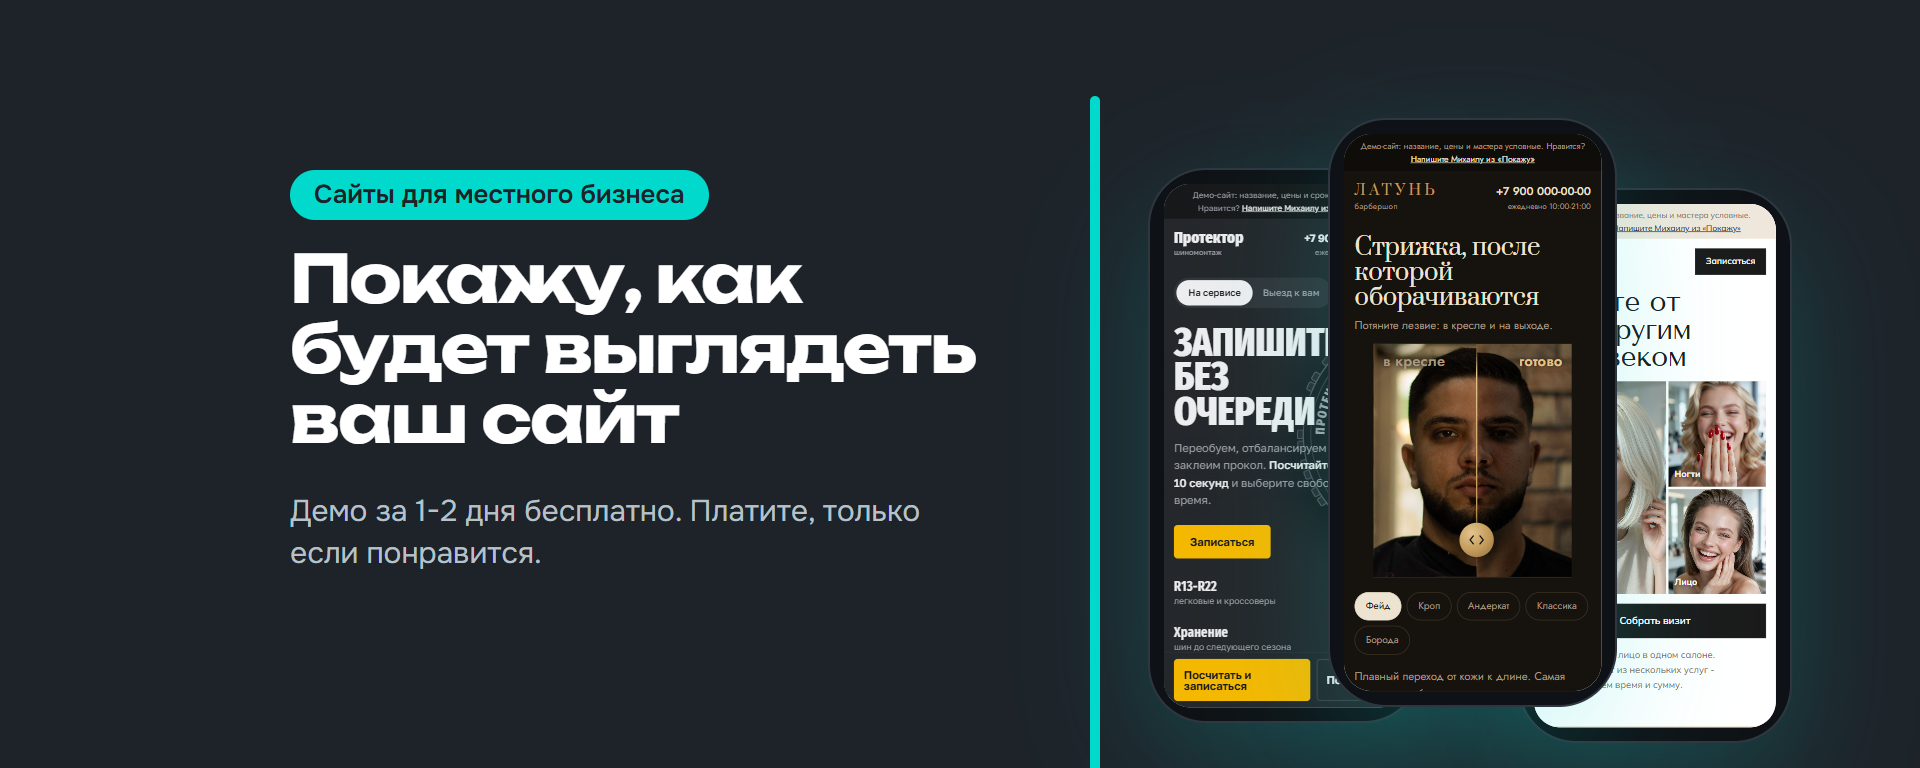
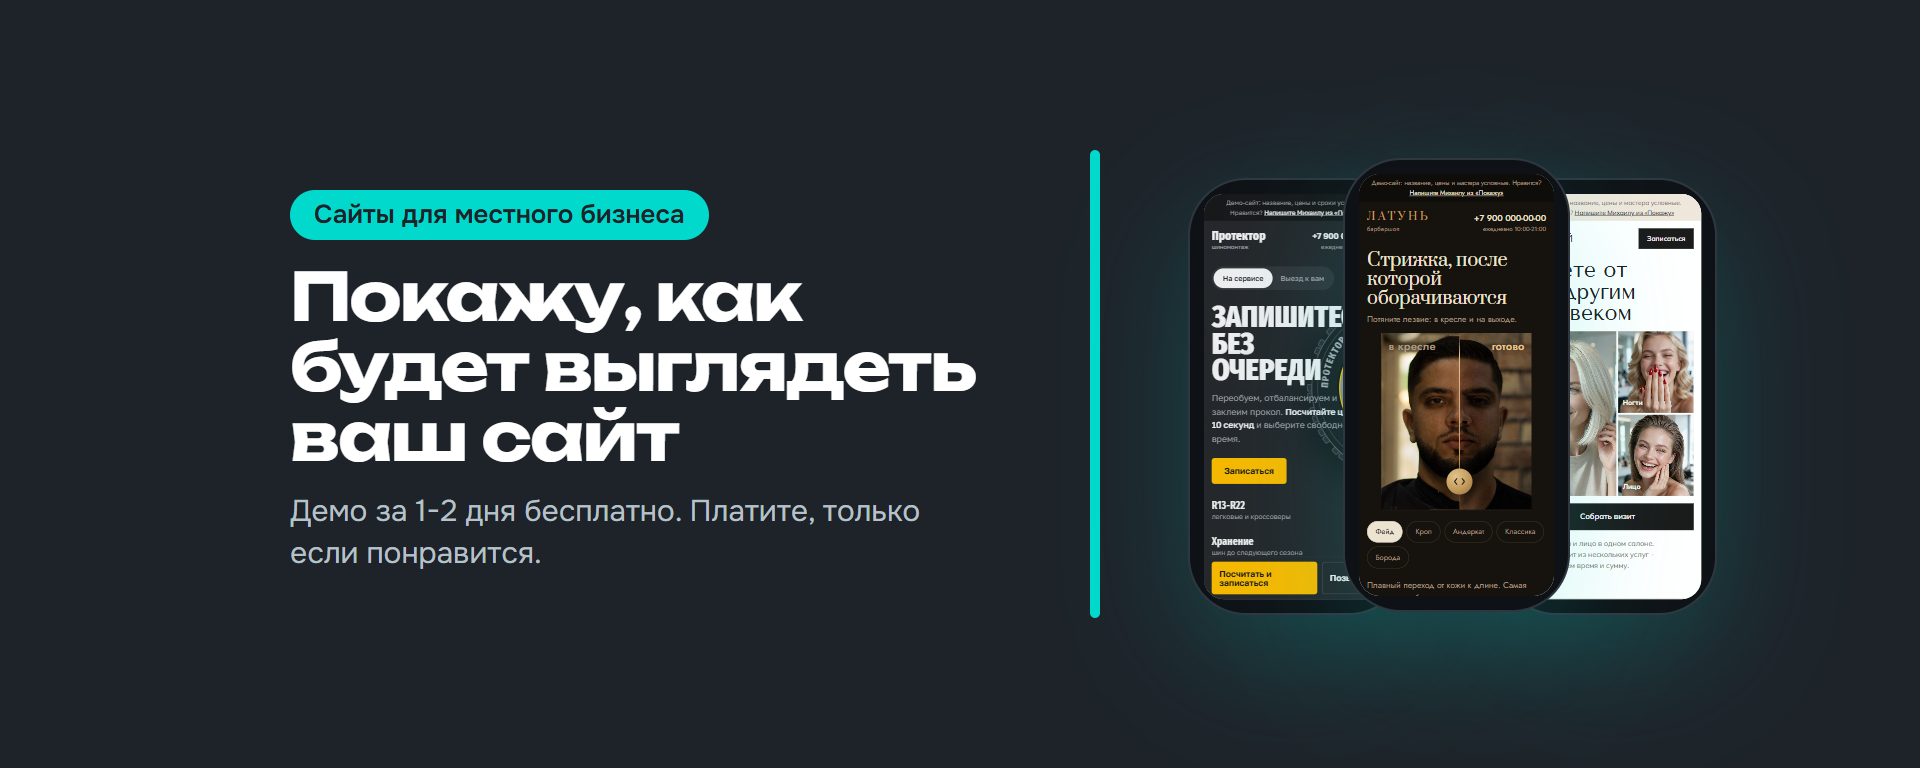
Обложка ВК для компьютера: контент вписан в видимую полосу y 142-625

Changed region(s): [[0.5625, 0.1562, 0.9375, 1.0], [0.125, 0.2188, 0.5312, 0.625], [0.5625, 0.125, 0.5938, 0.1875]]

diff --git a/brand/cards/cover.html b/brand/cards/cover.html
@@ -12,19 +12,19 @@
   html, body { margin:0; width:1920px; height:768px; overflow:hidden; }
   body { background:var(--graphite); color:var(--white); font-family:var(--text); position:relative; }
 
-  /* Безопасная зона: x 290-1630, y 110-660 (отступы 10-15% по справке ВК) */
-  .safe { position:absolute; left:290px; top:110px; width:1340px; height:550px; outline:2px dashed rgba(255,80,80,.0); }
+  /* Безопасная зона для ПК: ВК показывает среднюю полосу картинки, y 142-625 (проверено в редакторе обложки 18 октября 2026). Всё важное - строго внутри y 150-618. Остальное видно только в мобильной версии. */
+  .safe { position:absolute; left:290px; top:150px; width:1340px; height:468px; outline:2px dashed rgba(255,80,80,.0); }
 
-  .pill { position:absolute; left:290px; top:170px; display:inline-block; padding:12px 24px; border-radius:999px;
+  .pill { position:absolute; left:290px; top:190px; display:inline-block; padding:12px 24px; border-radius:999px;
           background:var(--accent); color:var(--graphite); font:600 26px/1 var(--text); }
-  h1 { position:absolute; left:290px; top:244px; width:700px; margin:0;
+  h1 { position:absolute; left:290px; top:262px; width:700px; margin:0;
        font:700 66px/1.06 var(--display); letter-spacing:-0.025em; }
   .sub { position:absolute; left:290px; top:490px; width:640px; margin:0; font:400 30px/1.4 var(--text); color:#B8C0C8; }
   .logo { position:absolute; left:290px; top:590px; display:inline-flex; align-items:stretch; font:700 34px/1 var(--display); letter-spacing:-0.02em; }
   .logo .was { color:var(--before); }
   .logo .cut { width:5px; margin:-5px 6px; border-radius:3px; background:var(--accent); }
 
-  .shutter { position:absolute; left:1090px; top:96px; width:10px; height:700px; border-radius:5px; background:var(--accent); }
+  .shutter { position:absolute; left:1090px; top:150px; width:10px; height:468px; border-radius:5px; background:var(--accent); }
 
   .phone { position:absolute; background:#0E1216; border-radius:56px; padding:14px;
            box-shadow:0 0 0 2px #2E3740, 0 40px 120px rgba(0,217,204,.20); }
@@ -52,9 +52,9 @@
              '<div class="screen" style="transform:scale(' + s + ')"><iframe src="' + D + demo + '/index.html" scrolling="no"></iframe></div></div>';
     }
     document.getElementById("phones").innerHTML =
-      phone(1150, 170, 0.62, "shinomontazh", 1) +
-      phone(1330, 120, 0.66, "barbershop", 3) +
-      phone(1520, 190, 0.62, "salon", 2);
+      phone(1190, 180, 0.48, "shinomontazh", 1) +
+      phone(1345, 160, 0.50, "barbershop", 3) +
+      phone(1500, 180, 0.48, "salon", 2);
   </script>
 </body>
 </html>

diff --git a/brand/cards/README.md b/brand/cards/README.md
@@ -5,7 +5,7 @@
 | Файл | Что это | Размер |
 |---|---|---|
 | `card.html` | Карточка поста для Telegram, ВК и MAX | 1080x1350 (4:5) |
-| `cover.html` | Обложка ВК «на сайте» (компьютер и браузер), готовая - `../vk-cover-pokazhu.png` | 1920x768 |
+| `cover.html` | Обложка ВК «на сайте» (компьютер и браузер), готовая - `../vk-cover-pokazhu.png`. В редакторе ВК на компьютере видна только средняя полоса картинки, примерно y 142-625: всё важное держать внутри y 150-618 | 1920x768 |
 | `bloom.html` | Нарисованный цветок, который распускается: кадр задаётся параметром `t` от 0 до 1. Из кадров собрано видео поста 8 (`../../content/bank/08-kak-rabotayu.mp4`) | 1080x1350 (4:5) |
 | `cover-vertical.html` | Обложка ВК в мобильном приложении, готовая - `../vk-cover-pokazhu-mobile.png` | 1080x1920 |
 | `cover-check.html` | Проверка мобильной обложки: поверх неё элементы интерфейса ВК (кнопки шапки, аватар, название, кнопка), готовый снимок - `../vk-cover-mobile-proverka.png`. Разметка приблизительная, по прежнему снимку проверки | 770x960 |
